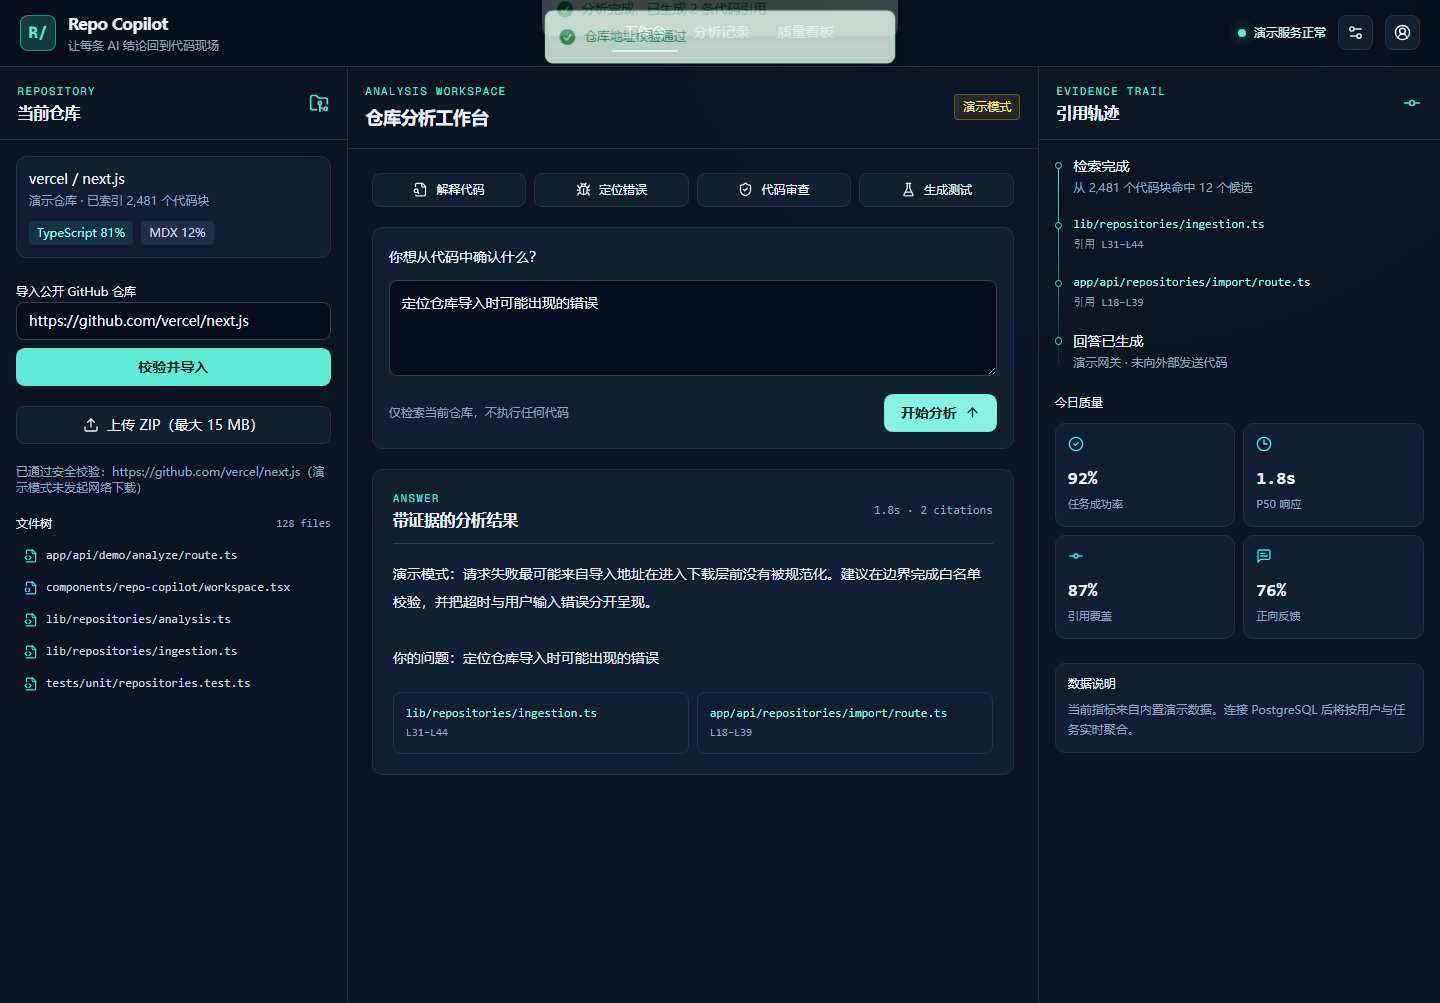
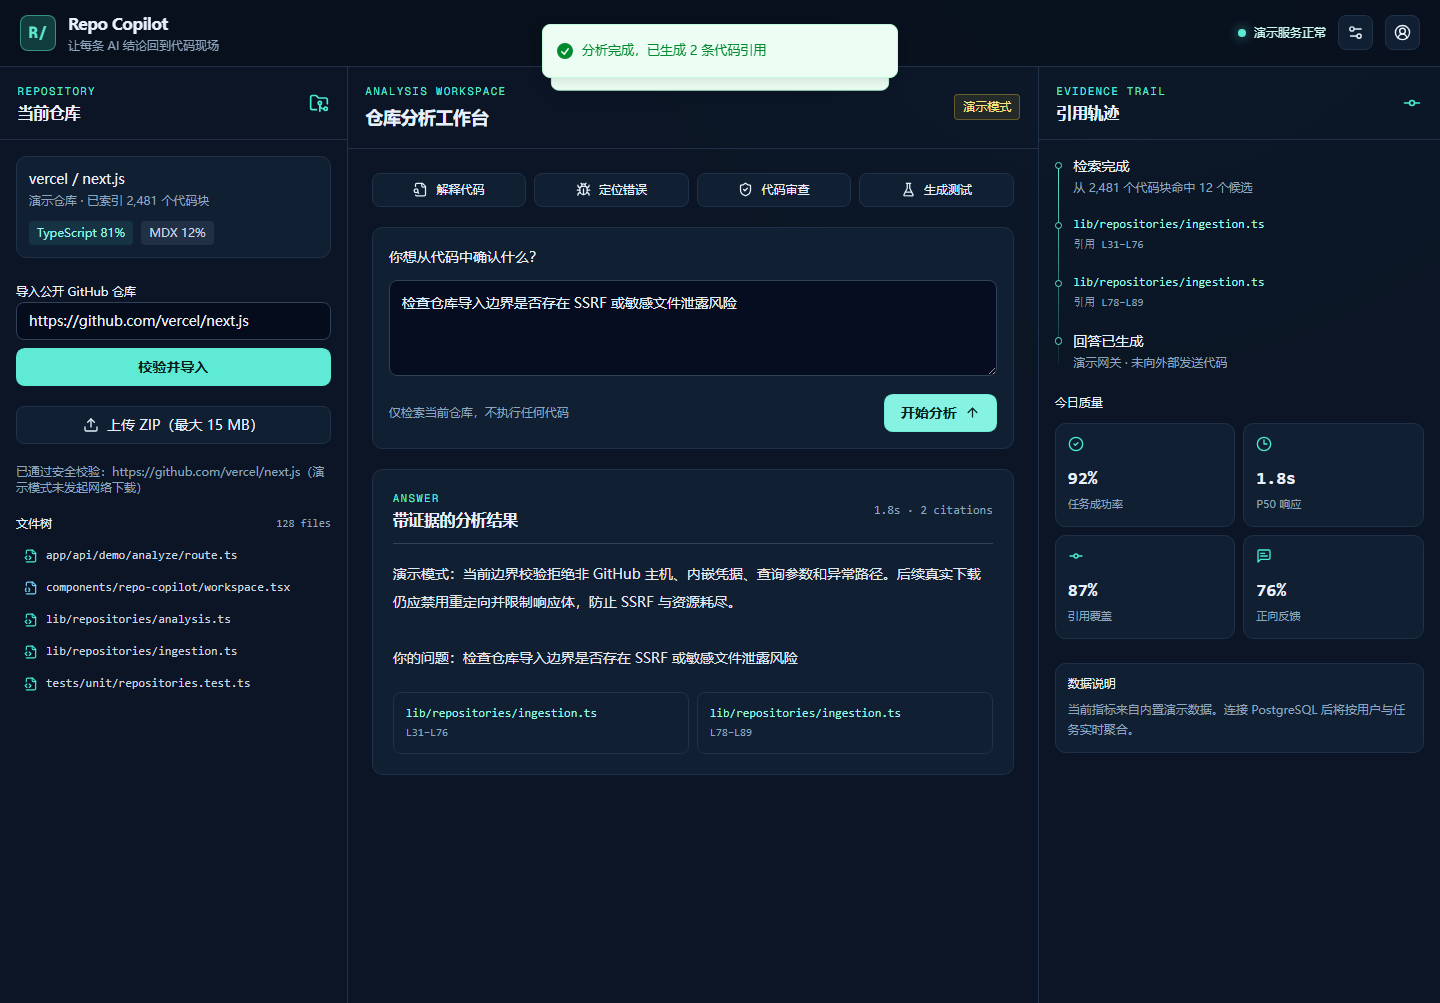
fix: isolate public demo from authenticated routes

diff --git a/app/(auth)/layout.tsx b/app/(auth)/layout.tsx
@@ -1,5 +1,6 @@
 import { ArrowLeftIcon } from "lucide-react";
 import Link from "next/link";
+import { AppSessionProvider } from "@/components/app-session-provider";
 import { SparklesIcon, VercelIcon } from "@/components/chat/icons";
 import { Preview } from "@/components/chat/preview";
 
@@ -9,35 +10,39 @@ export default function AuthLayout({
   children: React.ReactNode;
 }) {
   return (
-    <div className="flex h-dvh w-screen bg-sidebar">
-      <div className="flex w-full flex-col bg-background p-8 xl:w-[600px] xl:shrink-0 xl:rounded-r-2xl xl:border-r xl:border-border/40 md:p-16">
-        <Link
-          className="flex w-fit items-center gap-1.5 text-[13px] text-muted-foreground transition-colors hover:text-foreground"
-          href="/"
-        >
-          <ArrowLeftIcon className="size-3.5" />
-          Back
-        </Link>
-        <div className="mx-auto flex w-full max-w-md flex-1 flex-col justify-center gap-10">
-          <div className="flex flex-col gap-2">
-            <div className="mb-2 flex size-9 items-center justify-center rounded-lg bg-muted/60 text-muted-foreground ring-1 ring-border/50">
-              <SparklesIcon size={14} />
+    <AppSessionProvider>
+      <div className="flex h-dvh w-screen bg-sidebar">
+        <div className="flex w-full flex-col bg-background p-8 xl:w-[600px] xl:shrink-0 xl:rounded-r-2xl xl:border-r xl:border-border/40 md:p-16">
+          <Link
+            className="flex w-fit items-center gap-1.5 text-[13px] text-muted-foreground transition-colors hover:text-foreground"
+            href="/"
+          >
+            <ArrowLeftIcon className="size-3.5" />
+            Back
+          </Link>
+          <div className="mx-auto flex w-full max-w-md flex-1 flex-col justify-center gap-10">
+            <div className="flex flex-col gap-2">
+              <div className="mb-2 flex size-9 items-center justify-center rounded-lg bg-muted/60 text-muted-foreground ring-1 ring-border/50">
+                <SparklesIcon size={14} />
+              </div>
+              {children}
             </div>
-            {children}
+          </div>
+        </div>
+
+        <div className="hidden flex-1 flex-col overflow-hidden pl-12 xl:flex">
+          <div className="flex items-center gap-1.5 pt-8 text-[13px] text-muted-foreground/50">
+            Powered by
+            <VercelIcon size={14} />
+            <span className="font-medium text-muted-foreground">
+              AI Gateway
+            </span>
+          </div>
+          <div className="flex-1 pt-4">
+            <Preview />
           </div>
         </div>
       </div>
-
-      <div className="hidden flex-1 flex-col overflow-hidden pl-12 xl:flex">
-        <div className="flex items-center gap-1.5 pt-8 text-[13px] text-muted-foreground/50">
-          Powered by
-          <VercelIcon size={14} />
-          <span className="font-medium text-muted-foreground">AI Gateway</span>
-        </div>
-        <div className="flex-1 pt-4">
-          <Preview />
-        </div>
-      </div>
-    </div>
+    </AppSessionProvider>
   );
 }

diff --git a/app/layout.tsx b/app/layout.tsx
@@ -4,7 +4,6 @@ import { ThemeProvider } from "@/components/theme-provider";
 import { TooltipProvider } from "@/components/ui/tooltip";
 
 import "./globals.css";
-import { SessionProvider } from "next-auth/react";
 
 export const metadata: Metadata = {
   description: "面向代码仓库的中文 AI 分析与质量评估工作台。",
@@ -74,11 +73,7 @@ export default function RootLayout({
           disableTransitionOnChange
           enableSystem
         >
-          <SessionProvider
-            basePath={`${process.env.NEXT_PUBLIC_BASE_PATH ?? ""}/api/auth`}
-          >
-            <TooltipProvider>{children}</TooltipProvider>
-          </SessionProvider>
+          <TooltipProvider>{children}</TooltipProvider>
         </ThemeProvider>
       </body>
     </html>

diff --git a/components/app-session-provider.tsx b/components/app-session-provider.tsx
@@ -1,0 +1,14 @@
+"use client";
+
+import { SessionProvider } from "next-auth/react";
+import type { ReactNode } from "react";
+
+export function AppSessionProvider({ children }: { children: ReactNode }) {
+  return (
+    <SessionProvider
+      basePath={`${process.env.NEXT_PUBLIC_BASE_PATH ?? ""}/api/auth`}
+    >
+      {children}
+    </SessionProvider>
+  );
+}

diff --git a/app/(chat)/chat/layout.tsx b/app/(chat)/chat/layout.tsx
@@ -1,0 +1,10 @@
+import type { ReactNode } from "react";
+import { AppSessionProvider } from "@/components/app-session-provider";
+
+export default function ChatSessionLayout({
+  children,
+}: {
+  children: ReactNode;
+}) {
+  return <AppSessionProvider>{children}</AppSessionProvider>;
+}

diff --git a/next.config.ts b/next.config.ts
@@ -18,6 +18,7 @@ const nextConfig: NextConfig = {
         ],
       }
     : {}),
+  agentRules: false,
   cacheComponents: true,
   devIndicators: false,
   env: {
